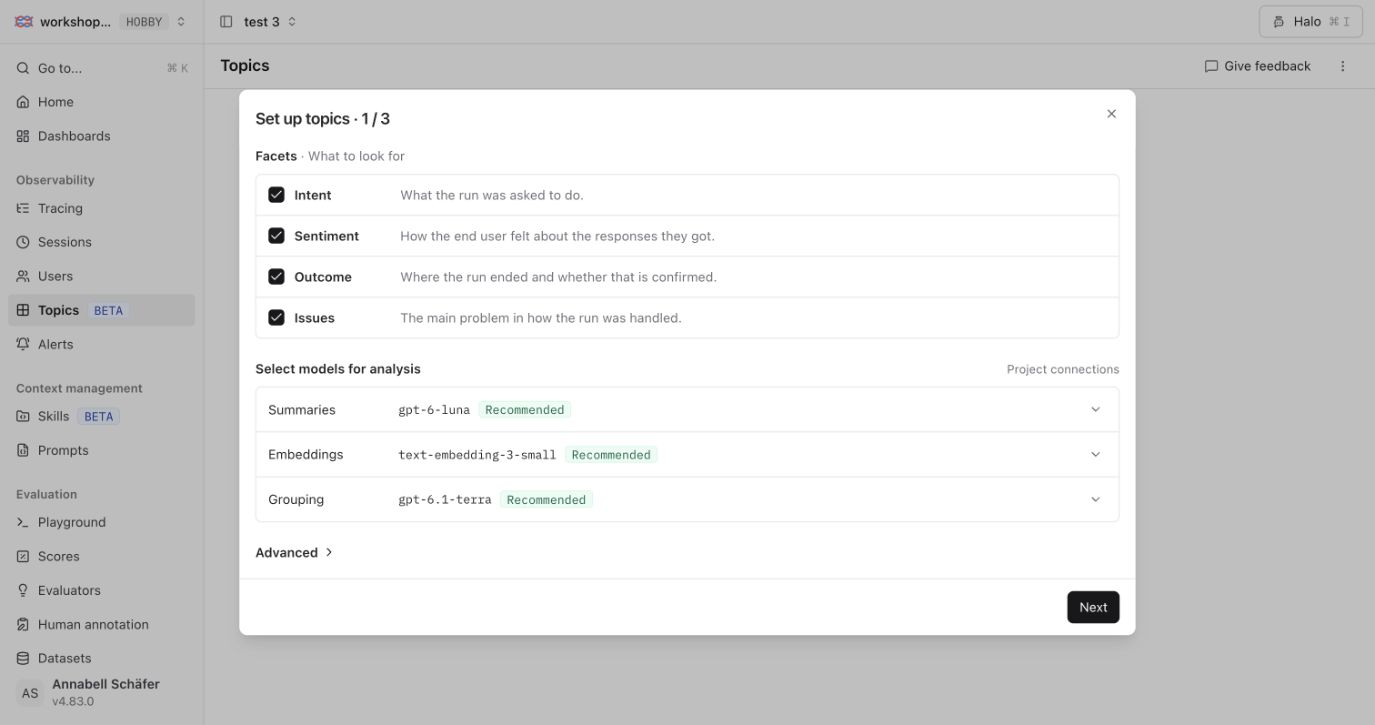
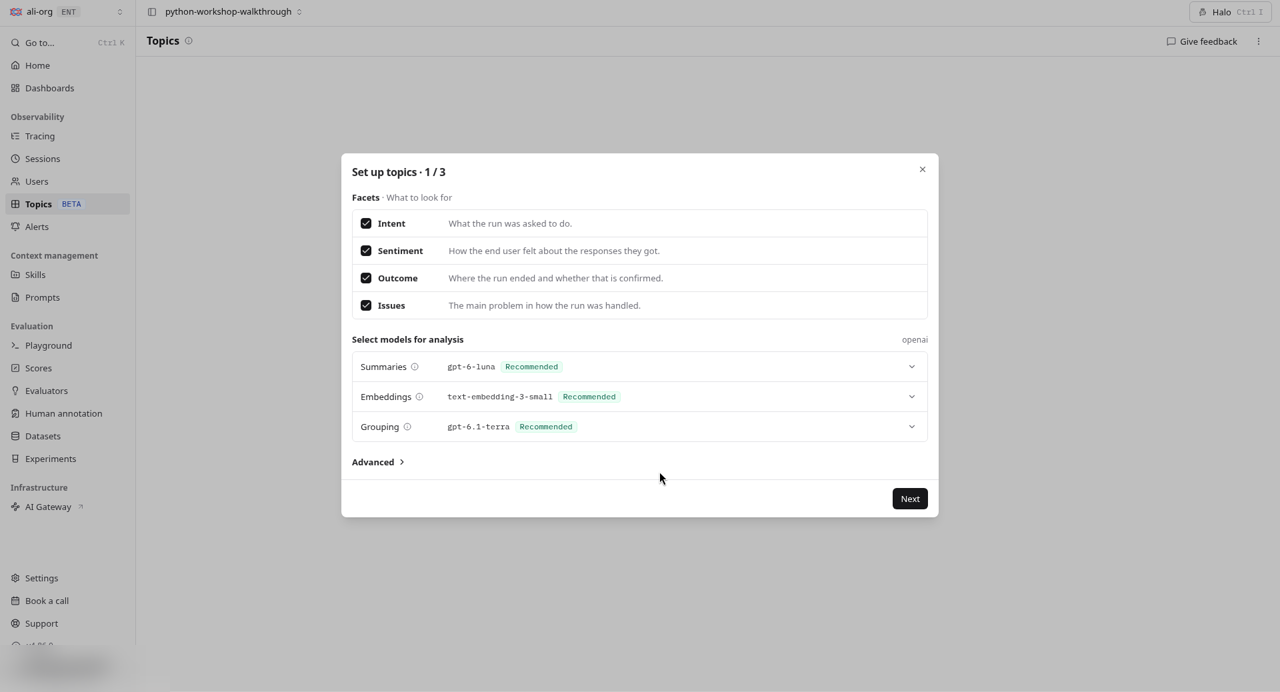
Recapture monitoring and topics screens from the Python run
Replace six evaluator screens and eleven topics screens with the
2026-11-25 captures from python-workshop-walkthrough. Keep the four
Sentiment and Issues images from upstream, and match the lessons to
the real wizard, group names, and the default tracing environment.

Changed region(s): [[0.1562, 0.0607, 0.8438, 0.8801], [0.0, 0.0, 0.2188, 0.9711], [0.875, 0.0, 0.9688, 0.1214]]

diff --git a/docs/learner/04-monitoring/topics.md b/docs/learner/04-monitoring/topics.md
@@ -58,34 +58,36 @@ On a new project, Topics opens with **See what your traces are about** and a **S
 
 ![The empty Topics state before the first map is created.](../../images/topics/empty-setup.png)
 
-1. Click **Set up topics**. In **Facets · What to look for**, leave all four facets checked:
+1. Click **Set up topics**. The dialog title is **Set up topics · 1/3**. Under **Facets · What to look for**, leave all four facets checked:
 
-   - **Intent:** what the run was asked to do.
-   - **Sentiment:** how the end user felt about the interaction.
-   - **Outcome:** where the run ended and whether that is confirmed.
-   - **Issues:** the main problem in how the run was handled.
+   - **Intent:** What the run was asked to do.
+   - **Sentiment:** How the end user felt about the responses they got.
+   - **Outcome:** Where the run ended and whether that is confirmed.
+   - **Issues:** The main problem in how the run was handled.
 
    A project may have a different selection, so do not assume that every facet is present in every map.
 
-   Keep the recommended models: `gpt-6-luna` for summaries, `text-embedding-3-small` for embeddings, and `gpt-6.1-terra` for grouping. Click **Next**.
+   Under **Select models for analysis**, keep the recommended models: `gpt-6-luna` for summaries, `text-embedding-3-small` for embeddings, and `gpt-6.1-terra` for grouping. Click **Next**.
 
-   ![Choose the four facets and the recommended analysis models.](../../images/topics/setup-look-for-current.png)
+   ![Set up topics · 1/3, with all four facets checked and the recommended models.](../../images/topics/setup-look-for-current.png)
 
-2. On **Select traces to analyze**, use **Query** or **Builder** to limit the map to the traces for this app. Topics runs on trace-level data. If the project contains several agents or applications, filtering keeps them from being mixed into one map. For this workshop, enter `tags:topics-seed` in **Query** so the map contains the 200-trace Topics seed. In a clean project where these are the only traces, an empty filter produces the same set.
+2. The next dialog is **Select traces to analyze · 2/3**. Use **Query** or **Builder** to limit the map to the traces for this app. Topics runs on trace-level data. If the project contains several agents or applications, filtering keeps them from being mixed into one map. For this workshop, enter `tags:topics-seed` in **Query** so the map contains the Topics seed. In a clean project where these are the only traces, an empty filter produces the same set.
 
-   Leave the **Sampling rate** at `100%`. The wizard shows the matching-trace window and count on the review step; in the current UI capture, it reports the last 30 days. After a map exists, the **Edit map** preview may report a 7-day window instead. New traces can take about 5 minutes after their last activity to become eligible; the seed timestamps its newest trace more than 5 minutes in the past.
+   The panel then reports about **200 matching traces in the last 7 days**. Leave the **Sampling rate** at `100%` (about 29 new traces a day at that rate). New traces can take about 5 minutes after their last activity to become eligible; the seed timestamps its newest trace more than 5 minutes in the past.
 
-   ![Select the traces and sampling rate before analysis.](../../images/topics/select-traces-current.png)
+   ![Select traces to analyze · 2/3, filtered to tags:topics-seed, about 200 traces in the last 7 days, sampling at 100%.](../../images/topics/select-traces-current.png)
 
    Click **Next**.
 
-3. On **Review**, confirm the four facets, the three models, and `100% sampling rate`. The review also shows how many traces match. Topics needs about 100 traces to form stable groups, so a smaller batch may take longer. If the project contains traces from more than this workshop, the first result can include those traces too; use a trace filter when you need an app-specific map.
+3. The last dialog is **Review · 3/3**. The name field reads **Default**. Confirm **Look for** lists Intent, Sentiment, Outcome, and Issues, the three models, and `100% sampling rate · ~29 new / day`. Under **Traces**, the review says **Runs on up to 200 recent traces that match your filters**. It also says first results from past traces take about 3–5 minutes, and new traces show up 5 minutes after their last activity. **Estimate cost** is optional. It prices 50 recent matching traces and does not call a model.
 
-   ![Review the facets, models, sampling rate, and matching-trace count.](../../images/topics/review-current.png)
+   Topics needs about 100 traces to form stable groups, so a smaller batch may take longer. If the project contains traces from more than this workshop, the first result can include those traces too; use a trace filter when you need an app-specific map.
 
-   Click **Start analyzing**. The analysis runs in the background and may take a few minutes. New traces appear about 5 minutes after their last activity.
+   ![Review · 3/3, with Start analyzing and an optional Estimate cost button.](../../images/topics/review-current.png)
 
-After the first map exists, **Edit map** opens these settings again. Use it to rename the map, change facets or filters, toggle **Live updates**, or adjust the sampling rate. The result screenshots in this lesson use a map filtered with `tags:topics-seed` and show 200 traces.
+   Click **Start analyzing**. The analysis runs in the background. In this walkthrough the Intent and Outcome groups were ready in about 2.5 minutes. New traces appear about 5 minutes after their last activity.
+
+After the first map exists, **Edit map** opens these settings again. Use it to rename the map, change facets or filters, toggle **Live updates**, or adjust the sampling rate. The Intent and Outcome screenshots in this lesson are that run: a map named **Default**, filtered with `tags:topics-seed`, showing 200 traces. Topic names are model-generated and will vary from run to run. Sentiment and Issues can take longer. In this run both still said **Not enough analyzed traces yet** after more than 15 minutes, so those screenshots are from the upstream workshop.
 
 If the map is marked **PAUSED**, it is not analyzing new traces. The header status tells you whether the selected map is active. The map selector can contain more than one map.
 
@@ -101,25 +103,34 @@ On **Scatter**, inspect the groups and the trace list together. You can search t
 
 ![Scatter shows the embedding map, topic counts, and matching traces.](../../images/topics/result-scatter.png)
 
-On **Issues**, open a group and read several traces before calling it a failure. A model-generated issue can be too broad, can overlap with an intent, or can describe a symptom rather than the cause.
+On **Issues** and **Sentiment**, open a group and read several traces before calling it a failure. A model-generated label can be too broad, can overlap with an intent, or can describe a symptom rather than the cause. Those two facets were not ready in the Python walkthrough. Both showed **Not enough analyzed traces yet**. The screenshots below are the upstream workshop's populated views, so the tile names will not match a later run of this project.
 
-![The loaded Issues facet with model-generated issue labels and trace summaries.](../../images/topics/result-issues.png)
+![The upstream Issues treemap. This Python run still showed "Not enough analyzed traces yet".](../../images/topics/result-issues.png)
 
-![The loaded Sentiment facet with model-generated sentiment labels and trace summaries.](../../images/topics/result-sentiment.png)
+![The upstream Sentiment treemap. This Python run still showed "Not enough analyzed traces yet".](../../images/topics/result-sentiment.png)
 
 ## Step 5: Apply the map to the Dad IT Support Agent
 
 Walk through the enabled facets before choosing a fix. Intent shows the kinds of help Dad requested. Sentiment shows how conversations felt. Outcome shows where they ended. Issues shows recurring problems in the handling. Some groups will show the agent working as expected. Topics are a map of use, including the requests that succeed.
 
-The groups are close to deterministic. A model names and describes them afterward, so the names and counts below describe one run of this data. Yours may be different. Treat the labels as hypotheses: open representative traces, decide what the group means, and then turn the useful patterns into prompt changes, tools, or evaluators.
+Topic names are model-generated and will vary per run. The Intent and Outcome names below are one run of this seed in `python-workshop-walkthrough`. The Sentiment and Issues names are the upstream capture, because those facets had not populated here. Treat every label as a hypothesis: open representative traces, decide what the group means, and then turn the useful patterns into prompt changes, tools, or evaluators.
 
 ### Insight 1: Laptop help is a chance to widen what Specs supports
 
-On **Intent**, look for two larger groups that are not iPhone tasks: one about the laptop's Wi-Fi, and one about printing from the laptop, including paper jams and paper in the tray.
+On **Intent**, this run produced six groups:
 
-![Use the Intent facet to compare request groups before opening representative traces.](../../images/topics/insight-intent.png)
+- Everyday Device Task Guidance, 63
+- Silencing and everyday phone controls, 45
+- Manage Wi-Fi Connections, 35
+- Laptop Printing Assistance, 29
+- Bluetooth Activation and Transit Navigation, 16
+- Unassigned, 12
 
-The iPhone is the device Specs is built for. These requests sit outside that, and Specs answers them anyway. Open several traces. The answer does not ask which laptop Dad has. It hedges every time: if it is Windows, do this; if it is a Mac, do this.
+Open **Laptop Printing Assistance** (29 traces). The summaries are print settings, paper jams, and a laptop that will not print.
+
+![Intent scatter with Laptop Printing Assistance selected, 29 traces.](../../images/topics/insight-intent.png)
+
+The iPhone is the device Specs is built for. These printing requests sit outside that, and Specs answers them anyway. Open several traces. The answer does not ask which laptop Dad has. It hedges every time: if it is Windows, do this; if it is a Mac, do this. Laptop Wi-Fi requests sit in **Manage Wi-Fi Connections** (35) beside phone Wi-Fi, and those answers hedge the same way.
 
 The agent is trying to be helpful, and it is missing the context it needs. This is a context problem, and we can provide that context through the `get_support_context` tool. `DEFAULT_SUPPORT_CONTEXT` in `app/support_data.py` already lists Dad's iPhone under `devices`, and that is what the tool returns. Add the laptop there, next to the phone. Specs can then give the steps for that machine.
 
@@ -145,31 +156,35 @@ Leave the running prompt as it is for now. The laptop belongs in the prompt beca
 
 ### Insight 2: Sentiment shows the frustration
 
-On **Sentiment**, the largest group may still be calm or neutral. Frustration does not land as one block. It can split across several groups with names such as "Frustration with Task Difficulties", "Frustration with connectivity difficulties", "Frustration With Ineffective Guidance", or "Frustration and Annoyance."
+Sentiment was not ready in this Python run. The tab showed **Not enough analyzed traces yet** for more than 15 minutes, so the screenshot is the upstream workshop's Sentiment treemap. Names will differ when your facet fills in.
 
-Open the group that is about connectivity or troubleshooting. The summaries should include Dad being frustrated that the laptop would not reconnect to Wi-Fi, or that the Wi-Fi troubleshooting did not work.
+On that capture, the largest groups are still calm: **Neutral Sentiment** (49) and **Neutral Procedural Requests** (35). Frustration does not land as one block. It splits across **Frustration with the Situation** (29), **Dissatisfaction with Instructions** (24), and **Frustration with Help** (21). **Positive Feedback on Earlier Help** (21) is the other named group.
+
+Open a frustration group. The summaries on that capture say the user was negative about the situation, the instructions, or the help.
 
 A few messages are in all caps, such as "THIS STILL ISNT WORKING", and a few push back: "No, that menu isn't there." [Section 4.3 Capturing signals](./capturing-signals.md) is next, and it turns this feeling into two scores: Dad disagreeing with the steps, and Dad writing in all caps.
 
-![Use the Sentiment facet to find groups that warrant a closer read for frustration.](../../images/topics/insight-sentiment.png)
+![The upstream Sentiment treemap. Neutral tiles are the largest, and frustration is split across several groups.](../../images/topics/insight-sentiment.png)
 
 ### Insight 3: Repeated steps after Dad says they failed
 
-On **Issues**, look for a group about repeated failed troubleshooting. The description should say that the response repeats prior instructions instead of adapting to the reported problem or investigating why they did not work.
+On **Outcome**, this run's group **Repeated Instructions Without Resolution** holds 30 traces. The description says the response repeated earlier instructions without resolving the request or confirming completion. That count matches the 30 stuck follow-ups in the seed.
 
 These are the two- and three-turn sessions where Dad says the steps did not work ("I did that, but nothing changed" or "I can't find that option") and Specs sends the same numbered list again. They hide inside ordinary intents such as Bluetooth or WhatsApp, which is why they show up together here.
 
-![Select an Issues group to inspect its description and the traces behind it.](../../images/topics/insight-issue-group.png)
+The other Outcome groups in this run are Requested Instructions Provided (33), Connection guidance provided (33), Task Guidance Provided (29), Instructions Provided (27), and Enabling or Increasing Settings (25), plus Unassigned.
+
+![Outcome scatter with Repeated Instructions Without Resolution selected, 30 traces.](../../images/topics/insight-issue-group.png)
 
 The fix could live in the system prompt: when Dad says a step failed, ask what he sees on screen and try a different path.
 
 ### Insight 4: A search that looks wrong, and an answer that still works
 
-On **Issues**, you may find a group about mismatched help-library searches. The tile can describe traces where the lookup query or result does not match the request, while the final answer still covers what Dad asked.
+Issues was not ready in this Python run either. The screenshot is the upstream workshop's Issues treemap. One of its groups is **Lookup failures led to generic guidance** (10 traces): the help-library lookup does not match the request, and the final answer is still generic.
 
 Open a few traces. The help-library query or result may be unrelated, and the final answer can still be useful. Leave this tile for a later look at the library. How often does `search_help_library` actually help, and which requests does it have nothing useful for? Look at the guides in `app/support_data.py` before treating the tile as a broken answer.
 
-![The Issues facet surfaces model-generated guidance problems and trace summaries to investigate.](../../images/topics/insight-issues.png)
+![The upstream Issues treemap. This Python run still showed "Not enough analyzed traces yet".](../../images/topics/insight-issues.png)
 
 Read enough traces to decide whether the group is a prompt problem, a tool problem, or missing library content. Halo can help with that reading. From the Topics page, ask it to open a group, point at the step in the trace that led to the issue, and flag tiles that look like false positives.
 

diff --git a/docs/instructor/04-monitoring.md b/docs/instructor/04-monitoring.md
@@ -28,18 +28,19 @@ Demo order: error analysis while the room still has to read traces, then topics 
 
 ### 4.2 Detect topics and issues
 
-- This is a configuration-and-reading walkthrough. Add the OpenAI connection, seed, then open the empty Topics page and click **Set up topics**. Keep Intent, Sentiment, Outcome, and Issues with the recommended models, filter **Query** to `tags:topics-seed` so the map contains the 200 workshop traces, keep sampling at 100%, review the matching-trace count, and click **Start analyzing**. After the first map exists, use **Edit map** for later changes. Do not assume every project map has all four facets.
+- This is a configuration-and-reading walkthrough. Add the OpenAI connection, seed, then open the empty Topics page and click **Set up topics**. The wizard is **Set up topics · 1/3** (four facets, recommended models, **Next**), **Select traces to analyze · 2/3** (`tags:topics-seed` in **Query**, about 200 matching traces in the last 7 days, sampling 100%), and **Review · 3/3**. The review name is **Default**. It says **Runs on up to 200 recent traces that match your filters**. Click **Start analyzing**. **Estimate cost** is optional and does not call a model. After the first map exists, use **Edit map** for later changes. Do not assume every project map has all four facets.
 - `uv run python scripts/seed_topics_traces.py` writes 200 traces tagged `topics-seed`. 110 are ordinary iPhone requests. 60 are laptop requests, 30 about printing and paper and 30 about the laptop's Wi-Fi, and each answer offers a Windows path and an Apple path because Specs does not know which laptop Dad has. 30 are stuck follow-ups that repeat the same steps after Dad says they failed. 100 of the 200 (at least 40%) have Dad sounding frustrated. The seed is not idempotent. The newest trace is about 10 minutes old and the batch spans about five days, so it sits inside the 7-day matching window.
 - The seed is not an OpenTelemetry replay of the upstream template corpus. It sends the same 200 scenarios, in the same order, to the Langfuse OpenTelemetry endpoint with explicit timestamps, because the SDK's observation helpers always start now. `--check` and `--dry-run` need no keys.
-- The wizard's review screen currently reports the last 30 days; after a map exists, the **Edit map** preview can report the last 7 days. New traces can take about 5 minutes after their last activity to appear. If the count is empty, do not save an empty map. Check the seed, the filter, and the window first. A map marked **PAUSED** is not analyzing new traces.
-- After analysis fills in, compare Treemap and Scatter, try the **Unassigned** toggle, click one tile on each enabled facet, and use **Open in Tracing**. The groups are close to deterministic. A model names and describes them afterward, so labels and counts vary. Ask learners to check each label in Tracing.
-- Land the insights in this order. First walk the facets as a map of how the system is used, including groups where the product is working. On Intent, laptop Wi-Fi and laptop printing are missing context: the answers hedge between Windows and Apple, and the fix is adding the laptop to `DEFAULT_SUPPORT_CONTEXT` in `app/support_data.py`. Read the suggested prompt that names the phone and the laptop. Do not publish it. The prompt published in 07 is the error-analysis one. On Sentiment, connect unresolved Wi-Fi conversations, all-caps lines, and "No, that menu isn't there" to the disagreement and all-caps scores. On Issues, repeated failed troubleshooting is a possible prompt fix, and mismatched searches are a question about the help library. Halo can open a group, point at the step that led to an issue, and flag false positives.
+- **Select traces to analyze · 2/3** reports the last 7 days and the matching count. If the count is empty, do not save an empty map. Check the seed, the filter, and the window first. A map marked **PAUSED** is not analyzing new traces. New traces can take about 5 minutes after their last activity to appear. The dialog says first results take about 3–5 minutes. In the 2026-11-25 walkthrough, Intent and Outcome were ready in about 2.5 minutes.
+- Topic names are model-generated and will vary per run. The 2026-11-25 Intent groups were Everyday Device Task Guidance (63), Silencing and everyday phone controls (45), Manage Wi-Fi Connections (35), Laptop Printing Assistance (29), Bluetooth Activation and Transit Navigation (16), and Unassigned (12). The Outcome groups were Requested Instructions Provided (33), Connection guidance provided (33), Repeated Instructions Without Resolution (30), Task Guidance Provided (29), Instructions Provided (27), Enabling or Increasing Settings (25), and Unassigned. Ask learners to check each label in Tracing rather than memorizing these names.
+- Sentiment and Issues may take longer. In that run both still said **Not enough analyzed traces yet** after more than 15 minutes. The Sentiment and Issues screenshots in the lesson are the upstream workshop's populated views. Say that out loud so nobody hunts for those exact tiles in this project.
+- Land the insights in this order. First walk the facets as a map of how the system is used, including groups where the product is working. On Intent, open **Laptop Printing Assistance** (29). The answers hedge between Windows and Apple, and the fix is adding the laptop to `DEFAULT_SUPPORT_CONTEXT` in `app/support_data.py`. Laptop Wi-Fi sits inside **Manage Wi-Fi Connections** (35) and hedges the same way. Read the suggested prompt that names the phone and the laptop. Do not publish it. The prompt published in 07 is the error-analysis one. On Sentiment, use the upstream screenshot: neutral tiles are the largest, and frustration is split across several groups. Connect all-caps lines and "No, that menu isn't there" to the disagreement and all-caps scores. On Outcome, **Repeated Instructions Without Resolution** (30) is the stuck follow-ups, and the screenshot is `insight-issue-group.png`. On Issues, the upstream tile **Lookup failures led to generic guidance** is the question about the help library. Halo can open a group, point at the step that led to an issue, and flag false positives.
 
 ### 4.3 Capturing signals
 
-- **Detect User Disagreement** is LLM-as-a-judge. **Detect User Frustration (ALL CAPS)** is a deterministic code evaluator that runs as TypeScript inside Langfuse. Learners do not port that snippet to Python. The observation input is the messages array either way.
+- **Detect User Disagreement** is LLM-as-a-judge. **Detect User Frustration (ALL CAPS)** opens as a **Code evaluator** written in TypeScript inside Langfuse. There is no variable-mapping step. Learners do not port that snippet to Python. The observation input is the messages array either way.
 - They added the OpenAI connection in topics. If they skipped that section, they add it here, then pick **5.6 Luna** (`gpt-5.6-luna`).
-- Both evaluators target the root `dad-it-support-chat-turn` agent observation.
+- The sample panel filter is `isRootObservation:true`. Pick the **AGENT** row named `dad-it-support-chat-turn`. The app does not set `LANGFUSE_TRACING_ENVIRONMENT`, and `get_client()` is called with no environment, so these traces are in `default`. There is no `production` environment. A one-turn sample disagreement test returns false ("There is no prior assistant response..."). That is expected. The live check is a second turn.
 - Bind `conversation_history` to **Input → messages** and `last_user_message` to **Input → messages → last** with **Use**. Do not type a JSONPath.
 - **Execute** is what turns the evaluator on. New turns are the check, not the seeded batch.
 - The bonus template is **Detect conversation signals**. Do not replace the two evaluators with it.
@@ -47,7 +48,7 @@ Demo order: error analysis while the room still has to read traces, then topics 
 ## Watch for
 
 - Re-running the error-analysis seed or the topics seed. Each run mints new trace IDs.
-- Treating a topics tile name or count as exact. The groups are close to deterministic. A model names and describes them afterward.
+- Treating a topics tile name or count as exact. Topic names are model-generated and will vary per run. Sentiment and Issues can still say **Not enough analyzed traces yet** after Intent and Outcome have filled in.
 - Publishing the laptop prompt in this lab. The prompt published in 07 is the error-analysis one.
 - Saving a map with an empty matching-trace count. Check the seed, the filter, and the last 7 days first.
 - Treating a **PAUSED** map as if it were analyzing new traces.

diff --git a/docs/images/README.md b/docs/images/README.md
@@ -28,19 +28,40 @@ These 13 files were recaptured on 2026-11-25 from a live Python run in the `pyth
 
 `tracing/02-tracing-step-2.png` and `tracing/02-tracing-step-3.png` are the same finished trace: the `dad-it-support-chat-turn` root, two `OpenAI-generation` rows, `get_support_context`, and `search_help_library`. `monitoring/user-disagrees-example.png` and `monitoring/all-caps-example.png` are the same trace, showing both the disagreement score and the all-caps score.
 
+## Recaptured on 2026-11-25, second pass
+
+These 6 monitoring files and 11 topics files were recaptured on 2026-11-25 in project `python-workshop-walkthrough`. Each is 1280×692, browser content only. The monitoring shots are the Python app's traces. The topics shots are the 200 traces from `scripts/seed_topics_traces.py`.
+
+Monitoring:
+
+- `monitoring/select-sample-observation.png`
+- `monitoring/user-disagreement-conversation-history-mapping.png`
+- `monitoring/user-disagreement-last-user-message-mapping.png`
+- `monitoring/user-disagreement-test-evaluator.png` (the one-turn sample scores false: "There is no prior assistant response...")
+- `monitoring/user-disagreement-execute-evaluator.png`
+- `monitoring/user-frustration-target-root-observation.png` (ALL CAPS opens as a Code evaluator, with no variable mapping)
+
+Topics:
+
+- Setup: `topics/empty-setup.png`, `topics/setup-look-for-current.png`, `topics/select-traces-current.png`, `topics/review-current.png`, `topics/edit-map.png`
+- Intent and Outcome: `topics/topic-map.png`, `topics/scatter.png`, `topics/result-treemap.png`, `topics/result-scatter.png`, `topics/insight-intent.png`, `topics/insight-issue-group.png`
+
+`insight-issue-group.png` is the Outcome facet, group **Repeated Instructions Without Resolution** (30 traces), not an Issues tile.
+
+## Topics that stay upstream
+
+Four topics files stay as the upstream captures from `df8f386dd6594074ca31227b811c8472d377d595`. In the Python run, Sentiment and Issues still showed **Not enough analyzed traces yet** after more than 15 minutes, so those screens were not a populated map. The handoff also contained empty captures of these four, plus an Outcome scatter saved under `insight-issues.png`. Those files were not used.
+
+- `topics/result-issues.png`
+- `topics/result-sentiment.png`
+- `topics/insight-sentiment.png`
+- `topics/insight-issues.png`
+
+`result-issues.png` and `insight-issues.png` are the same upstream bytes. `result-sentiment.png` and `insight-sentiment.png` are the same upstream bytes.
+
 ## Still the upstream captures
 
-The remaining monitoring screenshots are still the upstream captures: the evaluator wizard steps, Halo, failure categories, the frustration dashboard, and out-of-scope.
-
-## Topics (reused from upstream `df8f386`)
-
-The 15 files in `topics/` were copied unchanged from upstream commit `df8f386dd6594074ca31227b811c8472d377d595` (2026-11-25, "Add the topics lab to monitoring (#82)"). Topics is a Langfuse product feature, so the wizard and the result screens look the same whichever SDK wrote the traces, and the Python seed sends the same 200 scenarios. They were not recaptured from the Python walkthrough project: the setup wizard, the LLM connection, and the analysis run are UI mutations, and the result tiles are model-named, so a recapture would not match the lesson text word for word anyway.
-
-- Setup: `empty-setup.png`, `setup-look-for-current.png`, `select-traces-current.png`, `review-current.png`, `edit-map.png`
-- Results: `topic-map.png`, `scatter.png`, `result-treemap.png`, `result-scatter.png`, `result-issues.png`, `result-sentiment.png`
-- Insights: `insight-intent.png`, `insight-sentiment.png`, `insight-issue-group.png`, `insight-issues.png`
-
-Some are byte-identical upstream too (`result-issues.png` = `insight-issues.png`, `result-sentiment.png` = `insight-sentiment.png`). `edit-map.png`, `topic-map.png`, and `scatter.png` are not referenced by the lesson; they are kept because upstream ships them.
+The monitoring screenshots that were not in either 2026-11-25 pass stay upstream: `default-evaluation-model.png`, Halo (`halo-cluster-annotations.png`, `halo-conversation-signals-prompt.png`), `failure-categories.png`, `user-frustration-dashboard.png`, and the unlinked `out-of-scope.png` / `out-of-scope-example.png`.
 
 ## Agent diagrams (Python, 2026-11-25)
 
@@ -50,12 +71,6 @@ Some are byte-identical upstream too (`result-issues.png` = `insight-issues.png`
 
 ## Langfuse UI captures that still show TypeScript-written traces
 
-These upstream captures show Langfuse's UI, not the app, but the traces in them came from the TypeScript app: `OpenAI.chat` generation names (Python writes `OpenAI-generation`), `gpt-4.1-mini`, or JS SDK metadata (`scope.name: langfuse-sdk`, `scope.version: 5.3.0`). Recapturing them needs the Langfuse UI and evaluator-wizard mutations:
-
-- `monitoring/select-sample-observation.png`, `monitoring/user-frustration-target-root-observation.png`
-- `monitoring/user-disagreement-conversation-history-mapping.png`, `monitoring/user-disagreement-last-user-message-mapping.png`, `monitoring/user-disagreement-test-evaluator.png`, `monitoring/user-disagreement-execute-evaluator.png`
-- `monitoring/out-of-scope.png`, `monitoring/out-of-scope-example.png` (not linked from a lesson)
-
-`monitoring/user-frustration-target-root-observation.png` also shows the ALL CAPS evaluator's TypeScript, which is correct: Langfuse runs code evaluators in its TypeScript sandbox.
+`monitoring/out-of-scope.png` and `monitoring/out-of-scope-example.png` are still the upstream captures. They are not linked from a lesson. The four topics files listed above also show the upstream project's traces, not this Python run.
 
 `scripts/refresh_screenshots.py` is the refresh path for a later pass. It exits successfully and leaves the files in place when `LANGFUSE_PROJECT_URL` and a Playwright storage state (or email and password) are missing.

diff --git a/docs/learner/04-monitoring/capturing-signals.md b/docs/learner/04-monitoring/capturing-signals.md
@@ -48,9 +48,9 @@ Langfuse ships a published **Detect User Disagreement** template. It reads varia
 **Detect User Disagreement** maps `{{conversation_history}}` to every input message and `{{last_user_message}}` to the last input message. Target the root `dad-it-support-chat-turn` agent observation. The Python app logs that same input shape: `messages`, `sessionId`, and `userId`.
 
 1. Open **Evaluators → New Evaluator** and pick **Detect User Disagreement** from the **Template Gallery**.
-2. On the right side, select the trace root as a sample observation. Filter to the `production` environment if the panel is showing something else.
+2. On the right, **Test with sample observations** already filters with `isRootObservation:true`. The workshop leaves `LANGFUSE_TRACING_ENVIRONMENT` unset. `app/env.py` does not read that variable, and `get_client()` is called with no `environment` argument, so the Python SDK labels these traces `default`. There is no `production` environment in the project. If the panel is filtered to another environment, switch it to `default`. Select the **AGENT** row named `dad-it-support-chat-turn`. The sample line under the table should read that name. Do not leave a child **TOOL** row selected.
 
-   ![Select the trace root as a sample observation in the evaluator setup panel.](../../images/monitoring/select-sample-observation.png)
+   ![The sample panel filtered with isRootObservation:true. Pick the AGENT row dad-it-support-chat-turn.](../../images/monitoring/select-sample-observation.png)
 
 3. Under **Map variables to data**, bind each variable from the live observation tree. Open a row, hover the field, and press **Use**. Do not use **Type a JSONPath instead**.
 
@@ -61,9 +61,9 @@ Langfuse ships a published **Detect User Disagreement** template. It reads varia
 
    ![Bind the last user message with Use on Input → messages → last.](../../images/monitoring/user-disagreement-last-user-message-mapping.png)
 
-4. Test the evaluator on the sample observation.
+4. Test the evaluator on the sample observation. On a one-turn seed trace the score is **false**, with the reason "There is no prior assistant response, so the user's message cannot indicate disagreement with the assistant." That is the right result for a first question. The disagreement turn in Step 3 is what should score true.
 
-   ![Test the User Disagreement evaluator on the selected sample observation.](../../images/monitoring/user-disagreement-test-evaluator.png)
+   ![The disagreement test on a one-turn sample scores false: there is no prior assistant response.](../../images/monitoring/user-disagreement-test-evaluator.png)
 
 5. Click **Create evaluator**. Review the cost estimate and sampling rate, then click **Execute**.
 
@@ -75,10 +75,10 @@ The rule scores observations that arrive after you execute it. The seeded batch 
 
 This check does not need a model. It looks for a user message that is mostly capital letters.
 
-1. Open **Evaluators → New Evaluator** and pick **Detect User Frustration (ALL CAPS)**. The template targets the input of an observation and checks whether more than 70% of a message is capital letters.
-2. Target the same root agent observation:
+1. Open **Evaluators → New Evaluator** and pick **Detect User Frustration (ALL CAPS)**. It opens as a **Code evaluator**, written in TypeScript. There is no variable-mapping step. The code reads the observation input and returns true when more than 70% of the latest user message is capital letters.
+2. Target the same root agent observation. Keep the `isRootObservation:true` filter and select the **AGENT** row `dad-it-support-chat-turn`:
 
-   ![Target the same root observation for the user-frustration code evaluator.](../../images/monitoring/user-frustration-target-root-observation.png)
+   ![ALL CAPS opens as a Code evaluator. The sample panel still targets the AGENT row dad-it-support-chat-turn.](../../images/monitoring/user-frustration-target-root-observation.png)
 
 3. Run a test.
 4. Click **Create Evaluator**, then **Execute**.

diff --git a/SYNC.md b/SYNC.md
@@ -40,7 +40,7 @@ Do not open issues, pull requests, or pushes on `langfuse/langfuse-workshop`.
 | `docs/learner/08-wrap-up.md` | `docs/learner/08-wrap-up.md` | Ported |
 | `docs/instructor/*.md` | `docs/instructor/*.md` | Ported, with Python commands |
 | `docs/preparation_and_materials/README.md` | `docs/preparation_and_materials/README.md` | Ported |
-| `docs/images/**` | `docs/images/**` | Diagrams, the monitoring shots that were not recaptured, and all 15 `topics/` shots are upstream captures (`topics/` from `df8f386`). Thirteen Langfuse UI screenshots were recaptured on 2026-11-25 from a live Python run. `python-ui.png`, `python-ui-answer.png`, and `sample_app.png` are local captures of the Python chat page. `specs_illustration.png` and `tracing/process_illustration.png` are redrawn from a real Python run (`docs/images/source/`); keep them when syncing upstream image changes |
+| `docs/images/**` | `docs/images/**` | Recaptured 2026-11-25 from the Python workshop: 6 monitoring evaluator screens and 11 `topics/` files (wizard, Intent, Outcome). Four `topics/` files stay upstream from `df8f386` because Sentiment and Issues showed "Not enough analyzed traces yet": `result-issues.png`, `result-sentiment.png`, `insight-sentiment.png`, `insight-issues.png`. `python-ui.png`, `python-ui-answer.png`, and `sample_app.png` are local captures of the Python chat page. `specs_illustration.png` and `tracing/process_illustration.png` are redrawn from a real Python run (`docs/images/source/`); keep them when syncing upstream image changes |
 | `src/server/support-agent.ts` | `app/support_agent.py` | Ported |
 | `src/server/tools.ts` | `app/tools.py` | Ported |
 | `src/server/support-data.ts` | `app/support_data.py` | Ported |
@@ -90,7 +90,7 @@ Upstream teaches user and session IDs as an appendix and does not mention `LANGF
 - A commented `LANGFUSE_TRACING_ENVIRONMENT` line in `.env.example`
 - The optional row in the root README environment table
 
-The variable stays unset in the workshop defaults. Traces still use Langfuse's default environment, and chapter 4.3 still tells learners to filter the sample observation to `production` when that panel shows another environment. When porting a new upstream `02-tracing.md`, keep this appendix.
+The variable stays unset in the workshop defaults. `app/env.py` does not read it, and the app calls `get_client()` with no environment, so traces use the SDK's `default` environment. Chapter 4.3 filters the sample panel with `isRootObservation:true` and picks the AGENT `dad-it-support-chat-turn` row. It does not tell learners to filter to `production`. When porting a new upstream `02-tracing.md`, keep this appendix.
 
 ### Root input shape
 

diff --git a/docs/instructor/02-tracing.md b/docs/instructor/02-tracing.md
@@ -14,7 +14,7 @@ Learner guide: [02 Tracing](../learner/02-tracing.md)
 - Create the OpenAI client inside the decorated function so generations nest under the agent.
 - Do not skip the `update_current_span(input=request.model_dump(mode="json", by_alias=True, exclude_none=True))` line in Step 2. Without it the Python root input is `{"args": [...], "kwargs": {}}` in snake_case, and the 4.3 evaluator mapping **Input → messages** finds nothing.
 - User and session propagation is optional live. The `03-prompt-management` snapshot already includes `propagate_attributes`.
-- Tracing environment is an appendix, not a fourth live step. Leave `LANGFUSE_TRACING_ENVIRONMENT` unset unless a learner wants laptop traces separated from a deployed app. If they set it, the Traces filter and the 4.3 sample-observation filter have to use that same value.
+- Tracing environment is an appendix, not a fourth live step. Leave `LANGFUSE_TRACING_ENVIRONMENT` unset unless a learner wants laptop traces separated from a deployed app. Unset traces land in `default`. The app never sets a tracing environment. If they set the variable, the Traces filter and the 4.3 sample-observation filter have to use that same value. Do not tell them to filter the sample panel to `production`.
 
 ## Demo rhythm
 

diff --git a/docs/learner/02-tracing.md b/docs/learner/02-tracing.md
@@ -188,7 +188,7 @@ LANGFUSE_TRACING_ENVIRONMENT=development
 
 Restart `uv run python -m app.server`. In the Traces table, filter **Environment** to `development`. A deployed copy of the same project sets the variable to `production`.
 
-The lessons leave this variable unset. Traces then use Langfuse's default environment, and the sample observation in [4.3 Capturing signals](./04-monitoring/capturing-signals.md) can still be filtered to `production` when that panel shows another environment. When you set the variable, filter on the value you set. See [Environments](https://langfuse.com/docs/observability/features/environments).
+The lessons leave this variable unset. `app/env.py` does not read it, and the app calls `get_client()` with no `environment` argument, so the SDK labels those traces `default`. [Section 4.3 Capturing signals](./04-monitoring/capturing-signals.md) filters the sample panel with `isRootObservation:true` and picks the AGENT row `dad-it-support-chat-turn` in that `default` environment. There is no `production` environment unless you set this variable to create one. When you set the variable, filter on the value you set. See [Environments](https://langfuse.com/docs/observability/features/environments).
 
 ## End state
 

diff --git a/README.md b/README.md
@@ -76,7 +76,7 @@ Open [http://127.0.0.1:3333](http://127.0.0.1:3333). The page and the API are th
 
 - `app/` is the sample agent, the FastAPI server, and the chat UI.
 - `docs/learner/` and `docs/instructor/` are the lessons.
-- `docs/images/` holds the workshop figures. Thirteen Langfuse UI screenshots were recaptured from a live Python run on 2026-11-25. The rest are still the upstream captures. See [docs/images/README.md](docs/images/README.md).
+- `docs/images/` holds the workshop figures. Langfuse UI shots recaptured on 2026-11-25 include 6 monitoring evaluator screens and 11 topics files. Four topics files stay upstream because Sentiment and Issues had not populated. See [docs/images/README.md](docs/images/README.md).
 - `data/seed-dataset.json` is the 25-item eval dataset.
 - `scripts/` holds the checkpoint switcher, the seed and experiment runners, the smoke test, and the screenshot refresher.
 - `checkpoints/` holds the per-chapter copies of the three milestone files.
